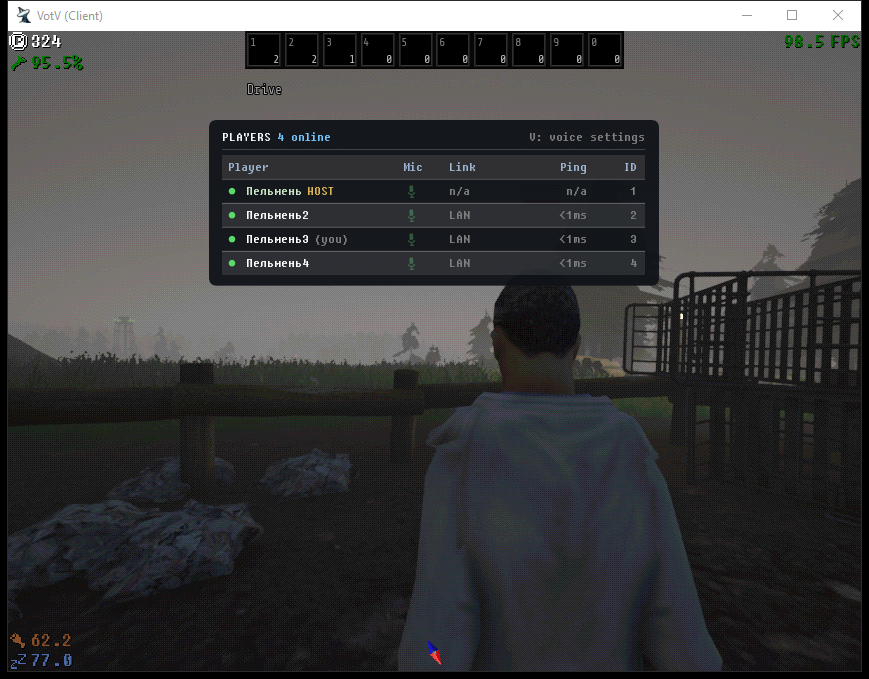
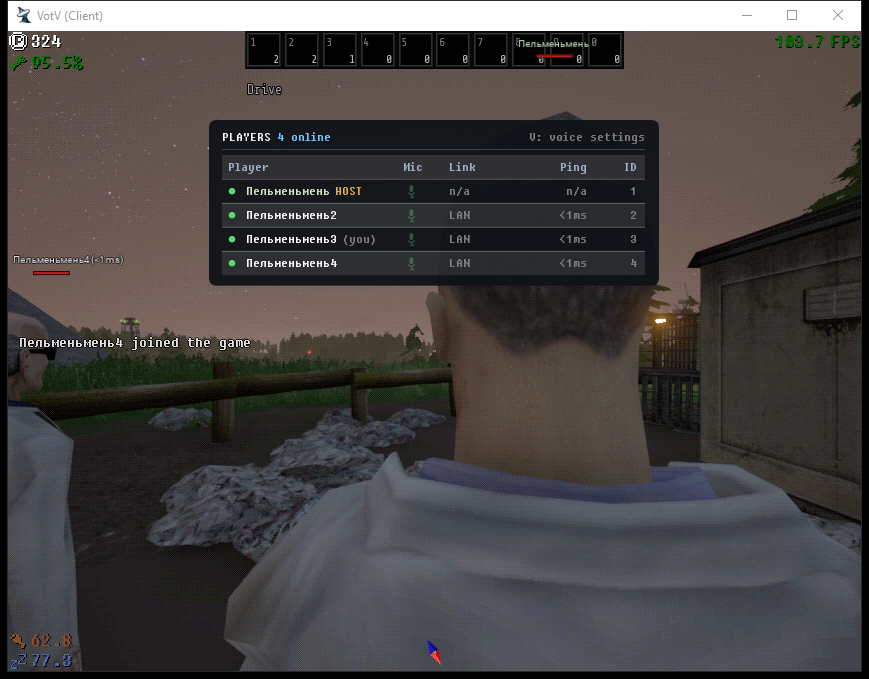
[v132] retire all four nick narrows; size the five buffers by the policy
The narrow census arc D1 never ran. D1 fixed the WIDENS (byte -> wchar_t at
entry) and shipped; a widen census is structurally blind to a narrow, so four
sites on the same lane survived it -- and one of them was the surface the whole
nickname arc was asked for.

  roster.cpp:32              WCTMB cap 23  -> BLANKED the TAB row past 12 Cyrillic
  moderation.cpp:47          WCTMB cap 23  -> BLANKED the ban record's nick
  nameplate.cpp:80           c < 127 ? '?' -> SQUASHED the FLOATING NAMEPLATE
  player_inventory_sync:114  ASCII filter  -> DROPPED the name from the record

The nameplate one matters most: the user's request was literally "просто чтобы у
всех был уникальный Nameplate", and the plate was the one place a Cyrillic name
still drew as '????????'. D1's drill photographed the TAB board, where Пельмень
(8 characters, 16 bytes) sits UNDER the 23-byte cliff -- every drill name passed
by being short, and no shot ever contained a plate. The evidence proved the one
path that worked.

All four now go through coop::text::CopyUtf8ToBuffer, and all five char nick[]
buffers are declared with kNickBufBytes instead of a literal 24. Three comments
asserting "peer nicks are ASCII-sanitized upstream" are deleted: they described
the allowlist D1 replaced with a denylist, and they were load-bearing -- each one
is why the site beneath it looked correct.

The inventory site keeps a local NickForJson because ESCAPING is its own concern
[…]

diff --git a/src/votv-coop/src/coop/items/player_inventory_sync.cpp b/src/votv-coop/src/coop/items/player_inventory_sync.cpp
@@ -8,6 +8,7 @@
 #include "coop/net/protocol.h"
 #include "coop/net/session.h"
 #include "coop/session/player_handshake.h"
+#include "coop/text/utf8_codec.h"
 #include "coop/save/save_transfer.h"
 #include "coop/config/config.h"     // ModuleDir -- the coop_players store now lives in the GAME folder
 #include "ue_wrap/actors/begin_equipment.h"  // RULE-1 first-join: the game's own getData->AddEquipment equip
@@ -15,6 +16,7 @@
 #include "ue_wrap/actors/inventory.h"
 #include "ue_wrap/core/log.h"
 
+#include <algorithm>
 #include <array>
 #include <atomic>
 #include <chrono>
@@ -108,10 +110,17 @@ std::string Hex(const std::vector<uint8_t>& b) {
     return s;
 }
 
-std::string NarrowNick(const std::wstring& w) {
-    std::string s;                       // nick is already SanitizeNickname'd (ASCII alnum + [-_. ])
-    s.reserve(w.size());
-    for (wchar_t c : w) if (c >= 32 && c < 127 && c != '"' && c != '\\') s.push_back(static_cast<char>(c));
+// The nick goes into a JSON string field below. ENCODING is the codec's job
+// (until 2026-07-28 this dropped every non-ASCII byte, so a Cyrillic player's
+// record carried an empty name); ESCAPING is this site's, because the container
+// is JSON. Raw UTF-8 is valid inside a JSON string -- only the two structural
+// metacharacters have to go, and they cannot appear inside a multi-byte sequence
+// (continuation bytes are all >= 0x80), so dropping them cannot corrupt one.
+std::string NickForJson(const std::wstring& w) {
+    std::string s = coop::text::CapUtf8Bytes(coop::text::ToUtf8(w), coop::text::kNickMaxBytes);
+    s.erase(std::remove_if(s.begin(), s.end(),
+                           [](char c) { return c == '"' || c == '\\'; }),
+            s.end());
     return s;
 }
 
@@ -433,7 +442,7 @@ void OnReliable(const coop::net::BlobChunkPayload& p, uint8_t senderPeerSlot) {
     e.guid = guid;
     e.blob = std::move(blob);
     e.hash = hash;
-    e.nick = NarrowNick(coop::player_handshake::NicknameForSlot(senderPeerSlot));  // GT snapshot
+    e.nick = NickForJson(coop::player_handshake::NicknameForSlot(senderPeerSlot));  // GT snapshot
     e.dirty = true;
     // Write now if the rate-limit window has passed; else HostPersistTick flushes it.
     if (Clock::now() - e.lastWrite >= kWriteRate) FlushSlot(senderPeerSlot);
@@ -579,7 +588,7 @@ void EnsurePlayerFile(int peerSlot) {
     // magic+FNV format (NOT a raw placeholder), so the on-disk format is uniform. The client's
     // inventory stream overwrites it ~1 s later if it has items.
     const std::vector<uint8_t> empty = coop::inventory_wire::Serialize(ue_wrap::inventory::PlayerInventory{});
-    const std::string nick = NarrowNick(coop::player_handshake::NicknameForSlot(peerSlot));
+    const std::string nick = NickForJson(coop::player_handshake::NicknameForSlot(peerSlot));
     if (WriteBlobFile(file, empty, nick))
         UE_LOGI("player_inventory: created empty inventory file for slot %d guid=%s ('%ls')",
                 peerSlot, guid.c_str(), file.c_str());

diff --git a/src/votv-coop/src/coop/player/roster.cpp b/src/votv-coop/src/coop/player/roster.cpp
@@ -24,17 +24,6 @@ Snapshot   g_snap;            // guarded by g_mutex
 std::atomic<bool> g_localIsHost{false};  // lock-free mirror of g_snap.localIsHost
 unsigned long long g_lastMs = 0;  // throttle stamp (game thread only)
 
-// Peer nicknames are ASCII-sanitized upstream (player_handshake::SanitizeNickname),
-// so a straight UTF-8 narrowing into the fixed buffer is lossless + bounded.
-void NarrowNick(const std::wstring& w, char out[24]) {
-    out[0] = '\0';
-    if (w.empty()) return;
-    int n = ::WideCharToMultiByte(CP_UTF8, 0, w.data(), static_cast<int>(w.size()),
-                                  out, 23, nullptr, nullptr);
-    if (n < 0) n = 0;
-    out[n] = '\0';
-}
-
 }  // namespace
 
 void SetSession(coop::net::Session* session) {
@@ -70,7 +59,7 @@ void Refresh() {
         // the "n/a" case -- NOT the "--" one, which means a sample has not landed
         // yet and implies it still might.
         snap.rows[0].linkKind = coop::net::LinkKind::Local;
-        NarrowNick(coop::player_handshake::LocalNickname(), snap.rows[0].nick);
+        coop::text::CopyUtf8ToBuffer(snap.rows[0].nick, coop::player_handshake::LocalNickname());
         {
             std::lock_guard<std::mutex> lk(g_mutex);
             g_snap = snap;
@@ -118,9 +107,9 @@ void Refresh() {
         // The display fallback lives in the ledger (ONE copy); the local row
         // still resolves through LocalNickname because our own name is ours
         // before any row exists.
-        NarrowNick(rowIsLocal ? coop::player_handshake::LocalNickname()
-                              : coop::roster_ledger::DisplayName(slot),
-                   r.nick);
+        coop::text::CopyUtf8ToBuffer(r.nick,
+                                     rowIsLocal ? coop::player_handshake::LocalNickname()
+                                                : coop::roster_ledger::DisplayName(slot));
         ++idx;
     }
     snap.count = idx;

diff --git a/src/votv-coop/src/coop/moderation/moderation.cpp b/src/votv-coop/src/coop/moderation/moderation.cpp
@@ -8,6 +8,7 @@
 #include "coop/net/session.h"
 #include "coop/player/roster_ledger.h"
 #include "coop/player/players_registry.h"
+#include "coop/text/utf8_codec.h"
 #include "ue_wrap/core/game_thread.h"
 #include "ue_wrap/core/log.h"
 
@@ -37,17 +38,6 @@ coop::net::Session* HostSession(const char* action) {
 
 bool ValidClientSlot(int slot) {
     return slot >= 1 && slot < static_cast<int>(coop::players::kMaxPeers);
-}
-
-// Narrow a (game-thread) nickname wstring into a small UTF-8 buffer for the ban
-// record. Best-effort -- a banlist nick is informational only.
-void NarrowNick(const std::wstring& w, char out[24]) {
-    out[0] = '\0';
-    if (w.empty()) return;
-    int n = ::WideCharToMultiByte(CP_UTF8, 0, w.data(), static_cast<int>(w.size()),
-                                  out, 23, nullptr, nullptr);
-    if (n < 0) n = 0;
-    out[n] = '\0';
 }
 
 }  // namespace
@@ -83,8 +73,8 @@ void BanPlayer(const PlayerToken& token, const char* reason) {
         char ip[64] = {};
         const bool haveIp = s->GetPeerAddressWithToken(token.slot, token.generation,
                                                        ip, sizeof(ip));
-        char nick[24] = {};
-        NarrowNick(coop::roster_ledger::Get(token.slot).nick, nick);
+        char nick[coop::text::kNickBufBytes] = {};
+        coop::text::CopyUtf8ToBuffer(nick, coop::roster_ledger::Get(token.slot).nick);
 
         // ABORT before writing anything if the captured player is gone. A ban is
         // permanent and IP-keyed; applying it to whoever inherited the seat would

diff --git a/src/votv-coop/include/coop/player/nameplate.h b/src/votv-coop/include/coop/player/nameplate.h
@@ -18,13 +18,19 @@
 
 #include "coop/net/link_kind.h"
 #include "coop/player/players_registry.h"  // kMaxPeers
+#include "coop/text/utf8_codec.h"          // kNickBufBytes -- the nick buffer's ONE owner
 
 namespace coop::net { class Session; }
 
 namespace coop::nameplate {
 
 // One projected label (plain data; the render thread reads it). nick is a fixed
-// ASCII buffer (peer nicks are sanitized to ASCII upstream in player_handshake).
+// UTF-8 buffer sized by the display policy (coop::text::kNickBufBytes) -- the
+// same alphabet the roster board and the chat bubble already carry. It was an
+// ASCII buffer filled through a `c < 127 ? c : '?'` squash until 2026-07-28,
+// which meant the FLOATING NAMEPLATE -- the surface the whole nickname arc was
+// asked for ("просто чтобы у всех был уникальный Nameplate") -- was the one
+// place a Cyrillic name still rendered as '????????'.
 struct Plate {
     float x = 0.f;           // screen px (viewport pixels, top-left origin) -- the head anchor
     float y = 0.f;
@@ -45,7 +51,7 @@ struct Plate {
     uint32_t colorRGB = 0;   // v103 (12f): packed custom nick color (coop::nick_color; 0 = white)
     float bubbleAlpha = 0.f; // 12g: overhead chat bubble fade (0 = none; rides the plate anchor)
     char  bubble[208] = {};  // 12g: the peer's last chat message, UTF-8 (chat_bubbles)
-    char  nick[24] = {};
+    char  nick[coop::text::kNickBufBytes] = {};
 };
 
 struct Snapshot {

diff --git a/src/votv-coop/include/coop/player/roster.h b/src/votv-coop/include/coop/player/roster.h
@@ -15,6 +15,7 @@
 
 #include "coop/net/link_kind.h"
 #include "coop/player/players_registry.h"  // kMaxPeers
+#include "coop/text/utf8_codec.h"          // kNickBufBytes -- the nick buffer's ONE owner
 
 namespace coop::net { class Session; }
 
@@ -25,11 +26,13 @@ namespace coop::roster {
 inline constexpr unsigned short kNoPlayerNo = 0;
 
 // One roster entry. Plain data only (the render thread reads it) -- the nickname
-// is a fixed UTF-8 buffer (peer nicks are sanitized to ASCII upstream, so 23
-// bytes + NUL is ample).
+// is a fixed UTF-8 buffer sized by the display policy itself
+// (coop::text::kNickBufBytes), not by an ASCII assumption. The old 24-byte
+// literal predated arc D1's widened alphabet: it fit 23 ASCII characters but only
+// 11 Cyrillic and 7 hanzi, and the row went BLANK past that.
 struct Row {
     int  slot = -1;
-    char nick[24] = {};
+    char nick[coop::text::kNickBufBytes] = {};
     // The occupant's session ID -- the number TAB shows, minted by the host and
     // never reused within a session. 0 only out of session (see kNoPlayerNo).
     // Deliberately NOT the slot: slots recycle, IDs do not.

diff --git a/src/votv-coop/src/coop/player/nameplate.cpp b/src/votv-coop/src/coop/player/nameplate.cpp
@@ -77,15 +77,6 @@ float DistanceScale(float distCm) {
     return std::max(kRefCm / distCm, kMinScale);
 }
 
-void CopyNickAscii(char (&dst)[24], const std::wstring& nick) {
-    size_t i = 0;
-    for (; i + 1 < sizeof(dst) && i < nick.size(); ++i) {
-        const wchar_t c = nick[i];
-        dst[i] = (c >= 32 && c < 127) ? static_cast<char>(c) : '?';
-    }
-    dst[i] = '\0';
-}
-
 void Publish(const Snapshot& s) {
     {
         std::lock_guard<std::mutex> lk(g_mu);
@@ -169,7 +160,7 @@ void Update() {
         pl.voiceIcon = static_cast<uint8_t>(coop::voice_chat::IconForSlot(slot));  // v66 badge
         pl.colorRGB = coop::nick_color::PackedForSlot(slot);  // v103 (12f): custom nick color
         pl.bubbleAlpha = coop::chat_bubbles::BubbleForSlot(slot, pl.bubble);  // 12g overhead bubble
-        CopyNickAscii(pl.nick, p->GetNickname());
+        coop::text::CopyUtf8ToBuffer(pl.nick, p->GetNickname());
 
         ++snap.count;
         if (snap.count >= static_cast<int>(coop::players::kMaxPeers)) break;

diff --git a/src/votv-coop/include/coop/moderation/seen_players.h b/src/votv-coop/include/coop/moderation/seen_players.h
@@ -19,6 +19,8 @@
 
 #pragma once
 
+#include "coop/text/utf8_codec.h"  // kNickBufBytes
+
 #include <vector>
 
 namespace coop::net { class Session; }
@@ -28,7 +30,7 @@ namespace coop::seen_players {
 // Plain-data record for UI consumption (render thread reads copies).
 struct Entry {
     char      guid[33] = {};   // 32 hex chars + NUL (validated upstream at the wire)
-    char      nick[24] = {};   // last known nick (ASCII-sanitized upstream)
+    char      nick[coop::text::kNickBufBytes] = {};  // last known nick, UTF-8
     char      ip[64]   = {};   // last known remote IP (dotted-decimal, no port)
     long long lastSeenUnix = 0;
     bool      online = false;  // currently connected to this host's session

diff --git a/src/votv-coop/include/coop/moderation/ban_list.h b/src/votv-coop/include/coop/moderation/ban_list.h
@@ -27,6 +27,8 @@
 
 #pragma once
 
+#include "coop/text/utf8_codec.h"  // kNickBufBytes
+
 #include <vector>
 
 namespace coop::ban_list {
@@ -35,7 +37,7 @@ namespace coop::ban_list {
 // section renders copies on the render thread).
 struct Entry {
     char      ip[64]     = {};
-    char      nick[24]   = {};
+    char      nick[coop::text::kNickBufBytes] = {};
     char      reason[96] = {};
     long long bannedUnix = 0;
 };
